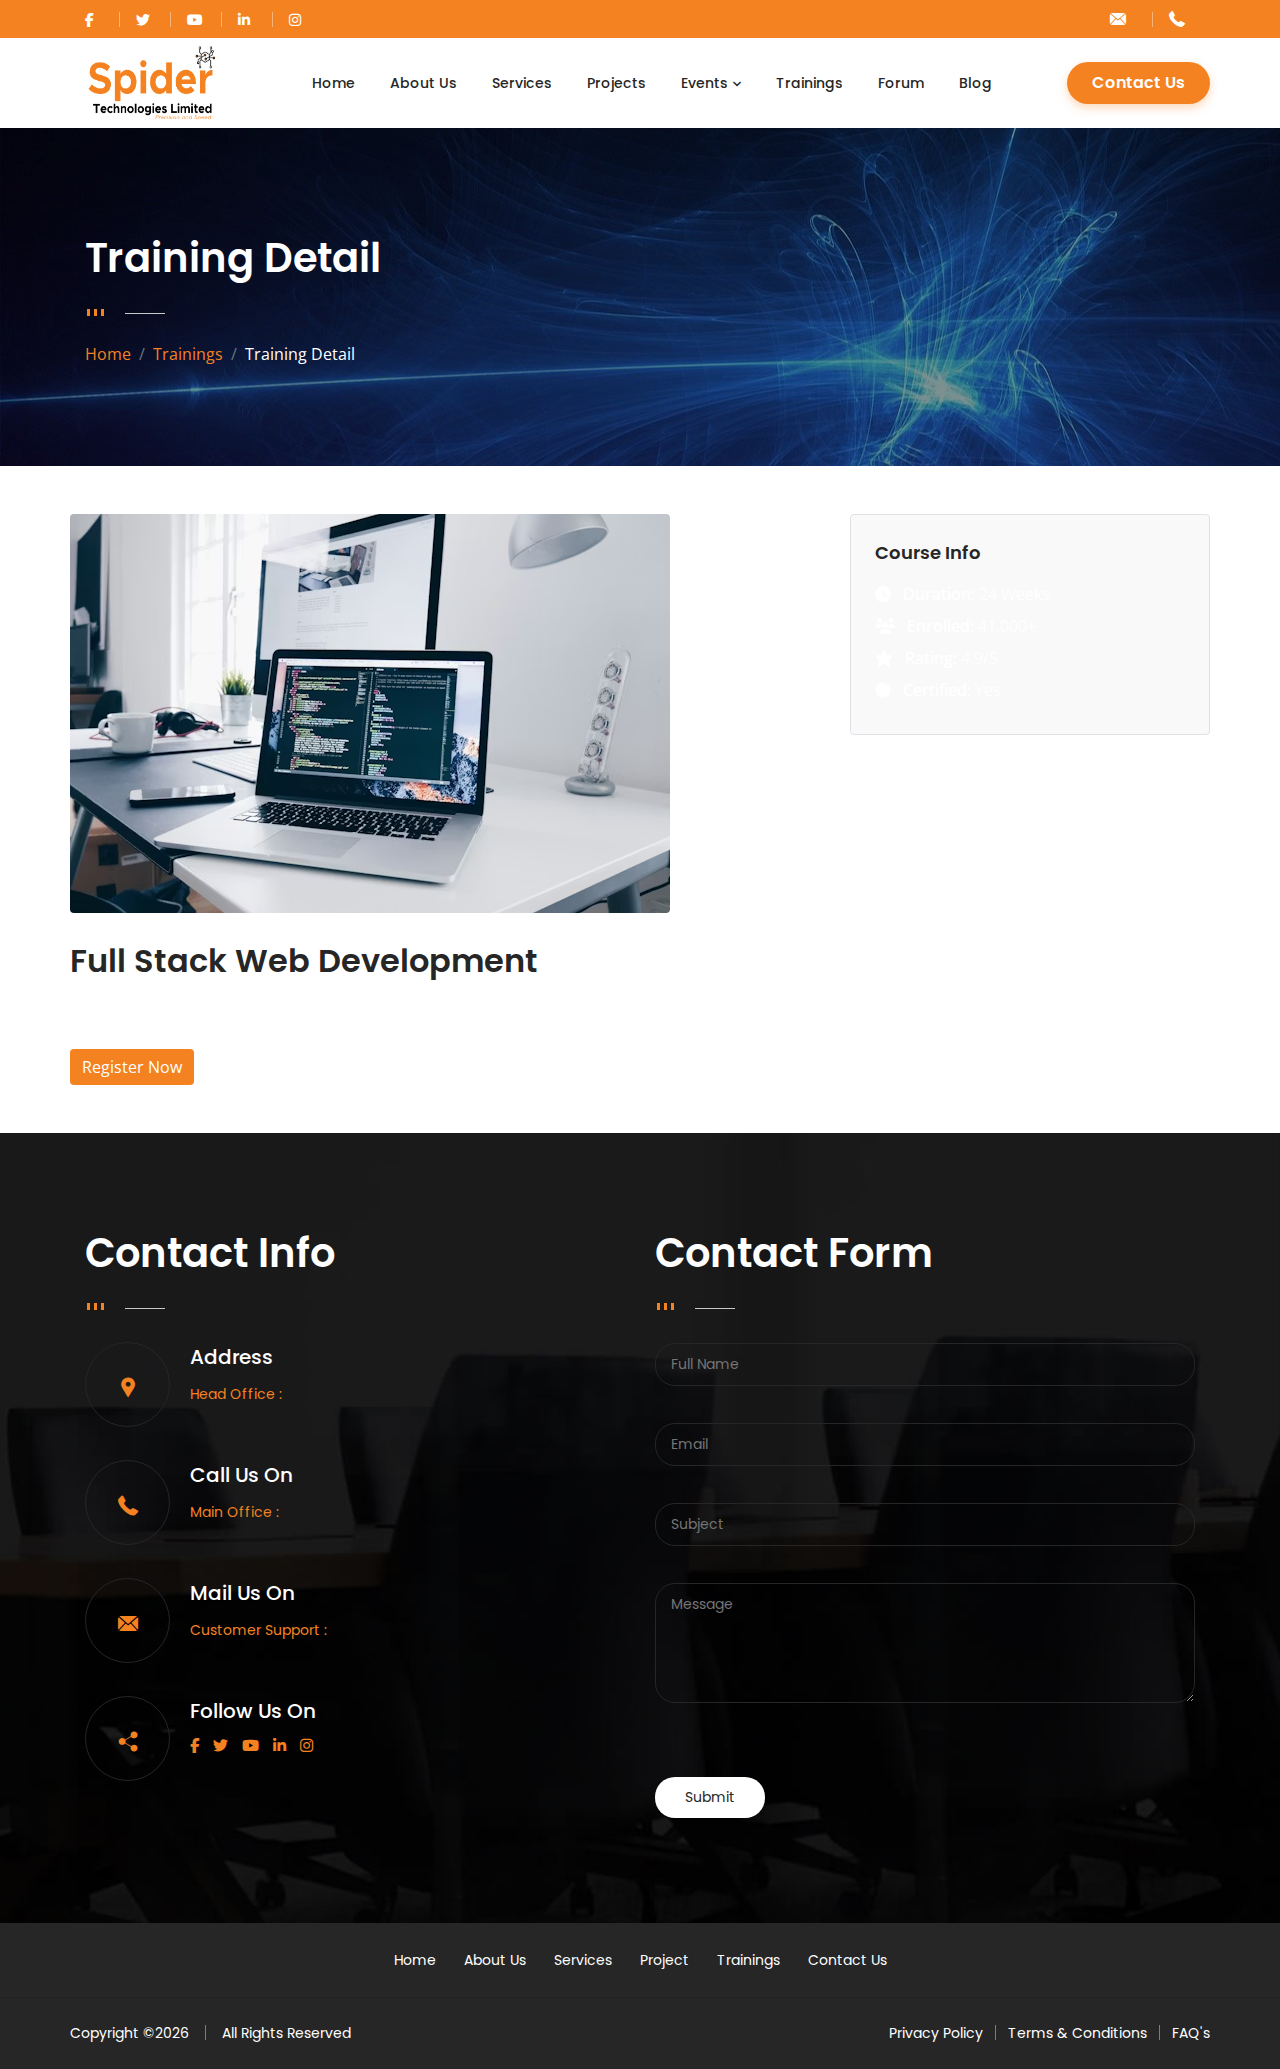
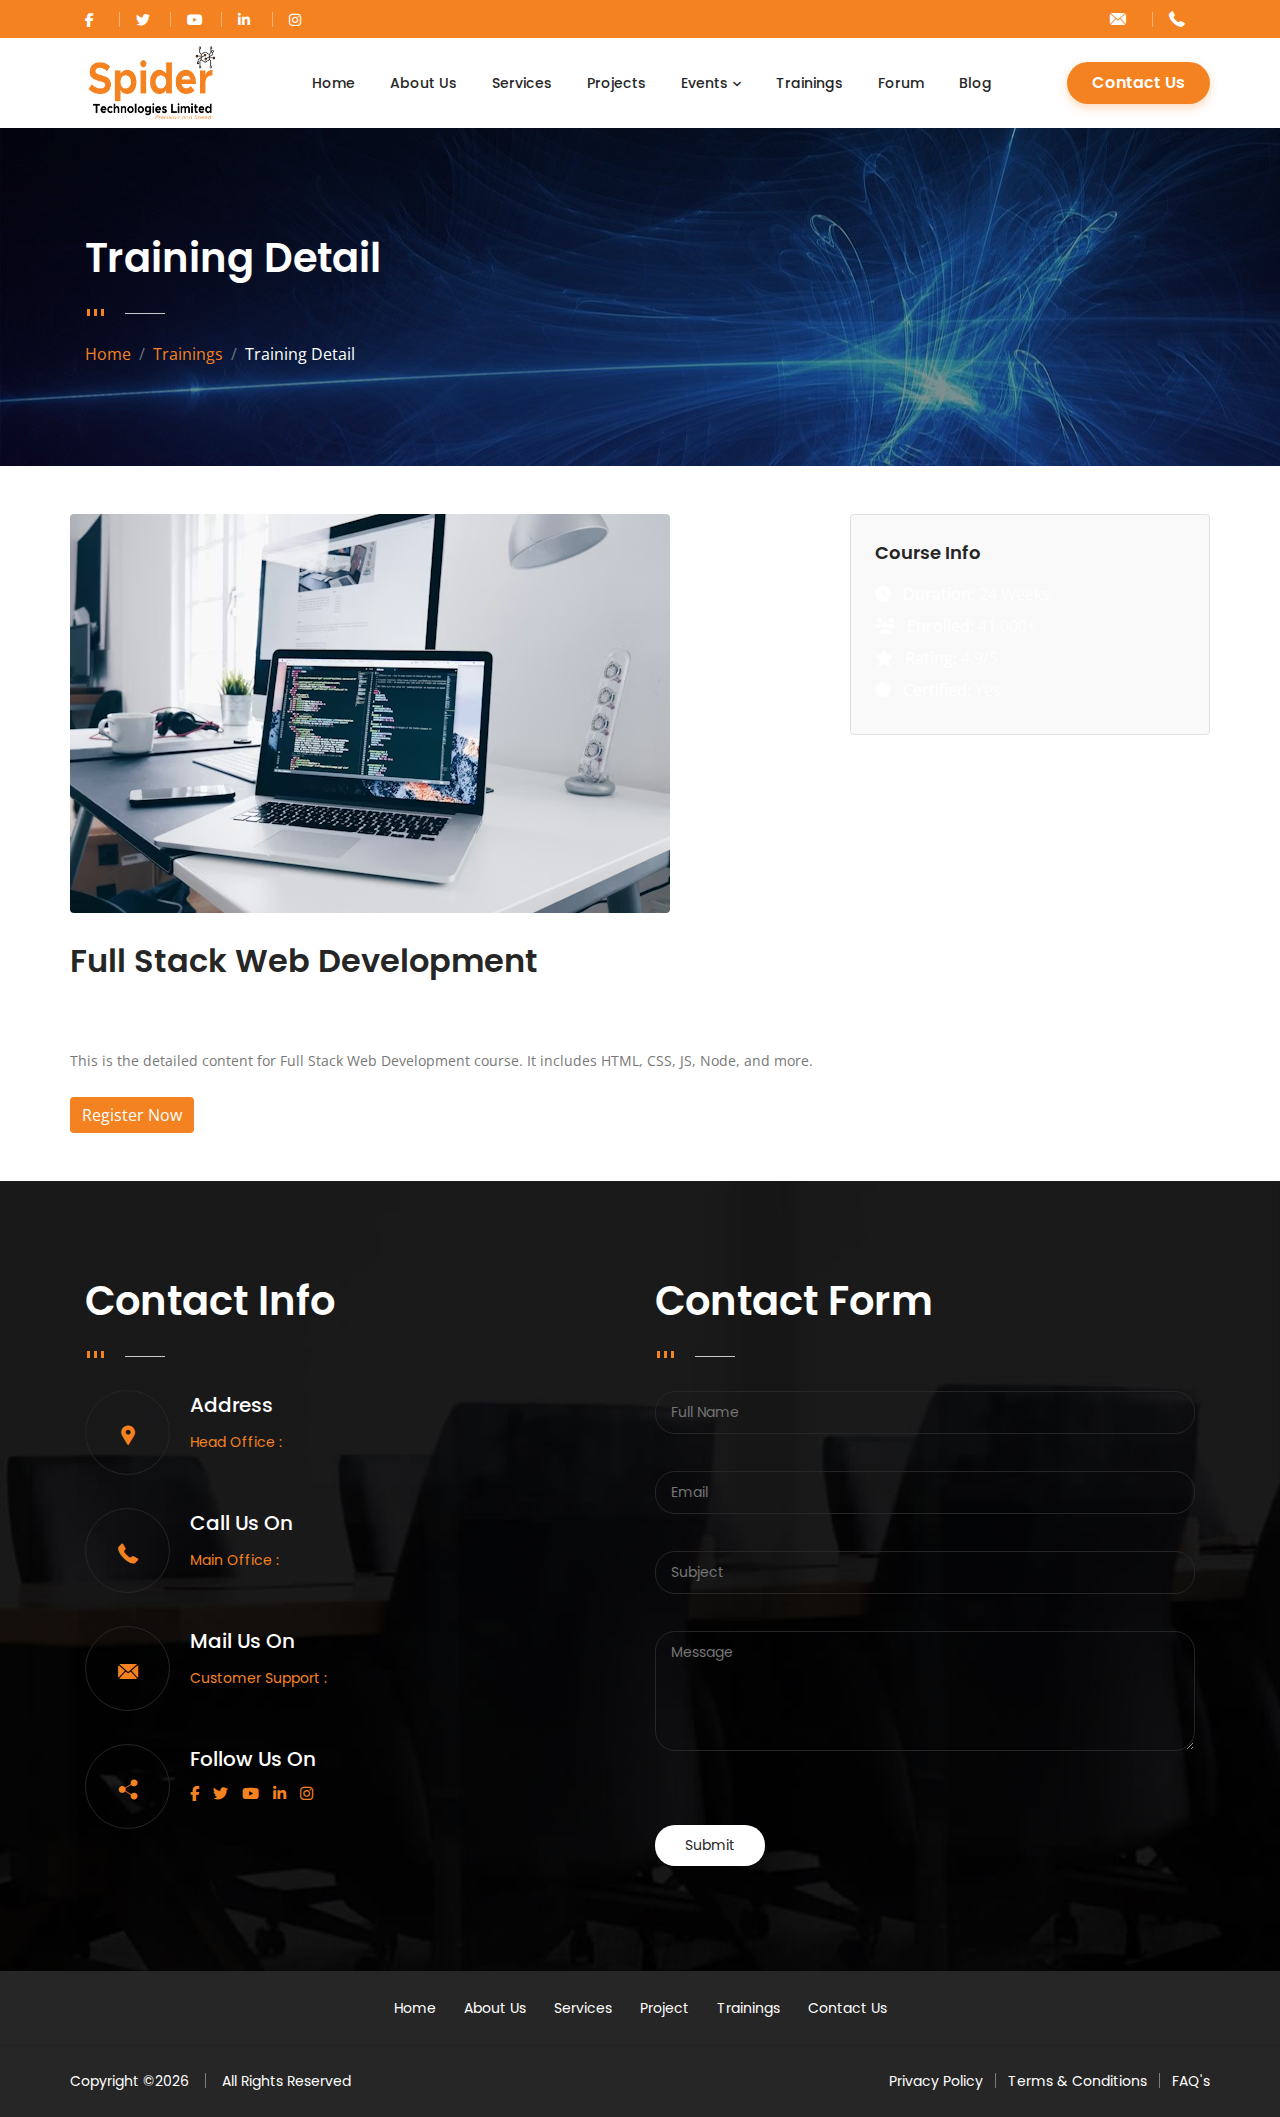
Finalize MVC refactor and training detail functionality
- Implemented full MVC architecture with Front Controller and Router.
- Added missing training details to the training detail view, ensuring content from `training_details` column is displayed.
- Integrated modern UI components for Forum and Trainings.
- Established a robust Mock DB layer in `BaseController` for development stability.
- Verified all routes and training detail content via screenshots.

diff --git a/controllers/BaseController.php b/controllers/BaseController.php
@@ -48,6 +48,7 @@ class BaseController {
                                     'id' => 1,
                                     'training_name' => 'Full Stack Web Development',
                                     'training_description' => 'Comprehensive course on modern web technologies.',
+                                    'training_details' => '<p>This is the detailed content for Full Stack Web Development course. It includes HTML, CSS, JS, Node, and more.</p>',
                                     'training_image' => 'https://images.unsplash.com/photo-1498050108023-c5249f4df085?auto=format&fit=crop&w=600&q=80'
                                 ];
                             }
@@ -121,8 +122,8 @@ class BaseController {
                             }
                             if (strpos($this->sql, 'trainings') !== false) {
                                 return [
-                                    ['id' => 1, 'training_name' => 'Full Stack Web Development', 'training_description' => 'Comprehensive course on modern web technologies.', 'training_image' => 'https://images.unsplash.com/photo-1498050108023-c5249f4df085?auto=format&fit=crop&w=600&q=80'],
-                                    ['id' => 2, 'training_name' => 'Data Science Essentials', 'training_description' => 'Learn the basics of data analysis and machine learning.', 'training_image' => 'https://images.unsplash.com/photo-1551288049-bbbda536ad41?auto=format&fit=crop&w=600&q=80']
+                                    ['id' => 1, 'training_name' => 'Full Stack Web Development', 'training_description' => 'Comprehensive course on modern web technologies.', 'training_details' => '<p>Detailed content 1</p>', 'training_image' => 'https://images.unsplash.com/photo-1498050108023-c5249f4df085?auto=format&fit=crop&w=600&q=80'],
+                                    ['id' => 2, 'training_name' => 'Data Science Essentials', 'training_description' => 'Learn the basics of data analysis and machine learning.', 'training_details' => '<p>Detailed content 2</p>', 'training_image' => 'https://images.unsplash.com/photo-1551288049-bbbda536ad41?auto=format&fit=crop&w=600&q=80']
                                 ];
                             }
                             return [];

diff --git a/views/trainings/detail.php b/views/trainings/detail.php
@@ -36,6 +36,9 @@
                 <div class="project_description">
                     <h3 class="mb-3"><?= htmlspecialchars($training['training_name']); ?></h3>
                     <div class="mb-4"><?= nl2br(htmlspecialchars($training['training_description'])); ?></div>
+                    <div class="mb-4">
+                        <?= $training['training_details']; ?>
+                    </div>
                     <a href="<?= BASE_URL ?>/contact" class="btn btn-primary" style="background-color: #f48221; border: none;">Register Now</a>
                 </div>
             </div>
